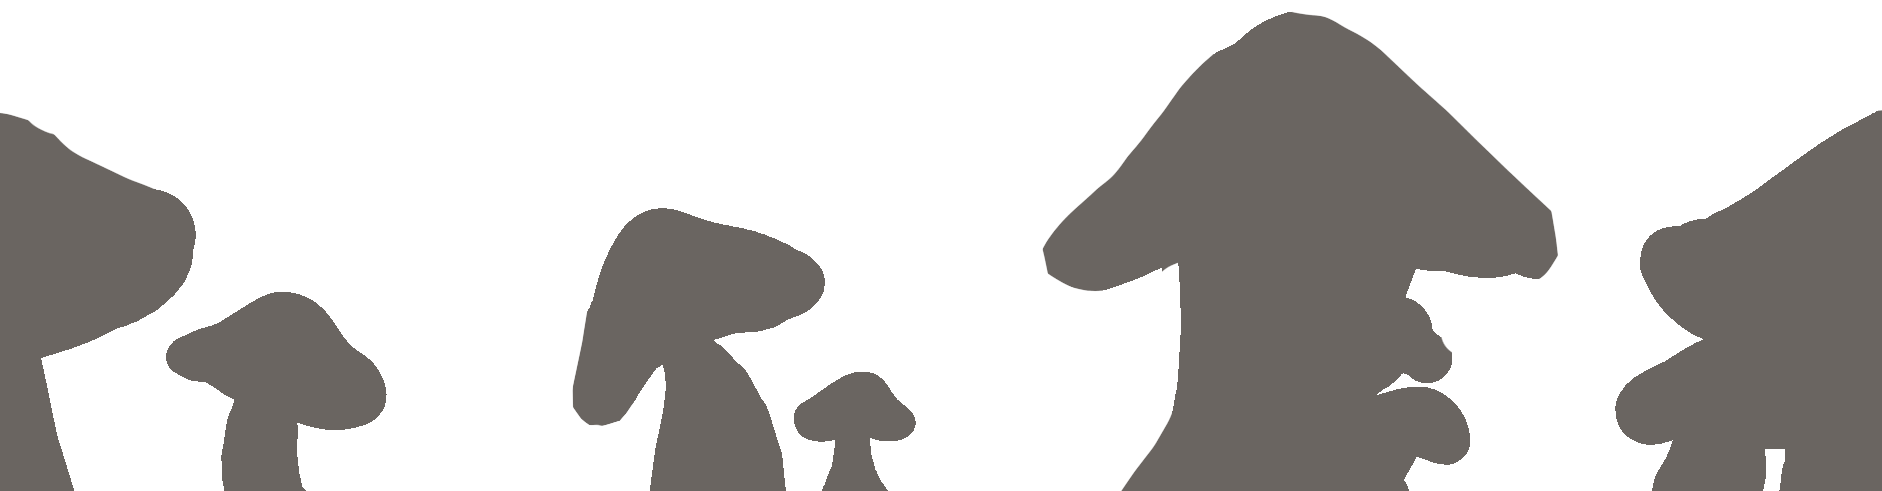
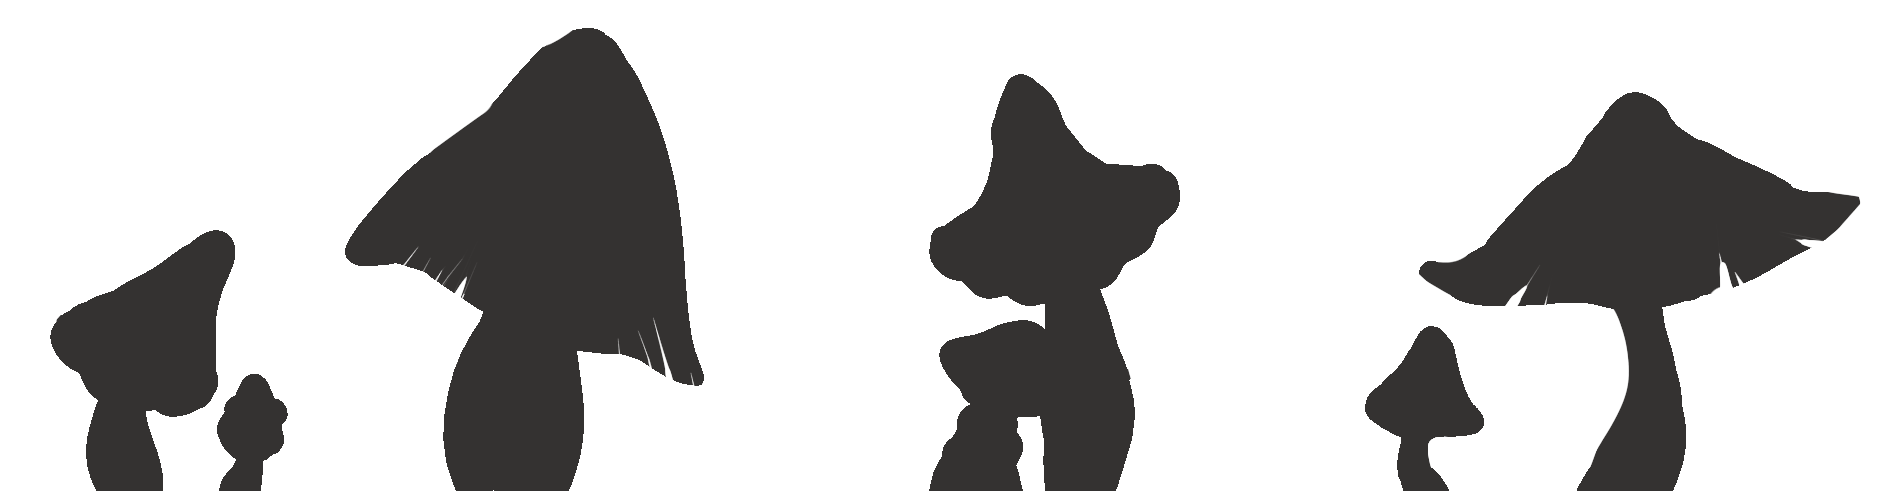
途中

diff --git a/docs/index.js b/docs/index.js
@@ -19,12 +19,104 @@ window.addEventListener('scroll',function(){
   let scroll = window.pageYOffset;
 
   let Backimg = document.getElementById("back-img");
-  console.log(Backimg);
+  let hitoimg = document.getElementById("hito-img");
+  let frontimg = document.getElementsByClassName("front-image");
+   console.log(frontimg);
+
+
+   if(scroll <= 12000 ){   
+    frontimg.src = "images/kino.png"
+  }else if(scroll > 12000 && scroll <= 24000){
+    frontimg.src = "images/kris.png"
+  }
+
+  if(scroll <= 7000 ){   
+    Backimg.src = "images/back.png"
+  }else if(scroll > 7000 && scroll <= 8000){
+    Backimg.src = "images/back2.png"
+  }else if(scroll > 8000 && scroll <= 9000){
+    Backimg.src = "images/back3.png"
+  }else if(scroll > 9000 && scroll <= 10000){
+    Backimg.src = "images/back4.png"
+  }else if(scroll > 10000 && scroll <= 12000){
+    Backimg.src = "images/back5.png"
+  }else if(scroll > 12000 && scroll <= 14000){
+    Backimg.src = "images/krisback5.png"
+  }else if(scroll > 14000 && scroll <= 15000){
+    Backimg.src = "images/krisback4.png"
+  }else if(scroll > 15000 && scroll <= 16000){
+    Backimg.src = "images/krisback3.png"
+  }else if(scroll > 16000 && scroll <= 17000){
+    Backimg.src = "images/krisback2.png"
+  }else if(scroll > 17000 && scroll <= 18000){
+    Backimg.src = "images/krisback.png"
+  }
 
   if(scroll <= 500 ){   
-    Backimg.src = "images/back.png"
-  }else if(scroll > 500){
-    Backimg.src = "images/ori.png"
+    hitoimg.src = "images/hito.png"
+  }else if(scroll > 500 && scroll <= 1000){
+    hitoimg.src = "images/hito2.png"
+  }else if(scroll > 1000 && scroll <= 1500){
+    hitoimg.src = "images/hito.png"
+  }else if(scroll > 1500 && scroll <= 2000){
+    hitoimg.src = "images/hito2.png"
+  }else if(scroll >2000 && scroll <= 2500){
+    hitoimg.src = "images/hito2.png"
+  }else if(scroll > 2500 && scroll <= 3000){
+    hitoimg.src = "images/hito.png"
+  }else if(scroll > 3000 && scroll <= 3500){
+    hitoimg.src = "images/hito2.png"
+  }else if(scroll > 3500 && scroll <= 4000){
+    hitoimg.src = "images/hito2.png"
+  }else if(scroll > 4000 && scroll <= 4500){
+    hitoimg.src = "images/hito.png"
+  }else if(scroll > 4500 && scroll <= 5000){
+    hitoimg.src = "images/hito2.png"
+  }else if(scroll >5000 && scroll <= 5500){
+    hitoimg.src = "images/hito2.png"
+  }else if(scroll > 5500 && scroll <= 6000){
+    hitoimg.src = "images/hito.png"
+  }else if(scroll > 6000 && scroll <= 6500){
+    hitoimg.src = "images/hito2.png"
+  }else if(scroll > 6500 && scroll <= 7000){
+    hitoimg.src = "images/hito.png"
+  }else if(scroll > 7000 && scroll <= 7500){
+    hitoimg.src = "images/hito2.png"
+  }else if(scroll > 7500 && scroll <= 8000){
+    hitoimg.src = "images/hito2.png"
+  }else if(scroll > 8000 && scroll <= 8500){
+    hitoimg.src = "images/hito.png"
+  }else if(scroll > 8500 && scroll <= 9000){
+    hitoimg.src = "images/hito2.png"
+  }else if(scroll > 9000 && scroll <= 9500){
+    hitoimg.src = "images/hito2.png"
+  }else if(scroll > 9500 && scroll <= 10000){
+    hitoimg.src = "images/hito.png"
+  }else if(scroll > 10000 && scroll <= 10500){
+    hitoimg.src = "images/hito2.png"
+  }else if(scroll > 10500 && scroll <= 11000){
+    hitoimg.src = "images/hito.png"
+  }else if(scroll > 11000 && scroll <= 11500){
+    hitoimg.src = "images/hito2.png"
+  }else if(scroll > 11500 && scroll <= 12000){
+    hitoimg.src = "images/hito.png"
+  }else if(scroll > 12000 && scroll <= 12500){
+    hitoimg.src = "images/hito2.png"
+  }else if(scroll > 12500 && scroll <= 13000){
+    hitoimg.src = "images/hito2.png"
+  }else if(scroll > 13000 && scroll <= 13500){
+    hitoimg.src = "images/hito.png"
+  }else if(scroll > 13500 && scroll <= 14000){
+    hitoimg.src = "images/hito2.png"
+  }else if(scroll > 14000 && scroll <= 14500){
+    hitoimg.src = "images/hito2.png"
+  }else if(scroll > 14500 && scroll <= 15000){
+    hitoimg.src = "images/hito.png"
+  }else if(scroll > 15000 && scroll <= 15500){
+    hitoimg.src = "images/hito2.png"
   }
+
+
+  
 })
 

diff --git a/docs/index.html b/docs/index.html
@@ -19,8 +19,11 @@
     <p id="scroll-content">スクロール量：<span id="scroll-num"></span></p>
     <div>
       <div class="scroll-image">
-        <img src="images/kino.png">
-        <img src="images/kino.png">
+        <img class="front-image" src="images/kino.png">
+        <img class="front-image" src="images/kino.png">
+      </div>
+      <div class="hito">
+        <img id="hito-img" src="images/hito.png">
       </div>
       <div class="back">
         <img id="back-img" src="images/back.png">

diff --git a/docs/style.css b/docs/style.css
@@ -25,7 +25,7 @@ main {
 
 .bg {
   
-  height: 3000vh;
+  height: 3500vh;
   /* width: 3000vw; */
 }
 
@@ -51,3 +51,14 @@ main {
   /* overflow-y: scroll; */
 }
 
+.hito{
+  position: fixed;
+  display: flex;
+  flex: 1;
+  top: 0;
+  left: 0;
+  z-index: 50;
+  height: 100vh;
+  width: 100vw;
+  overflow-x: scroll;
+}
